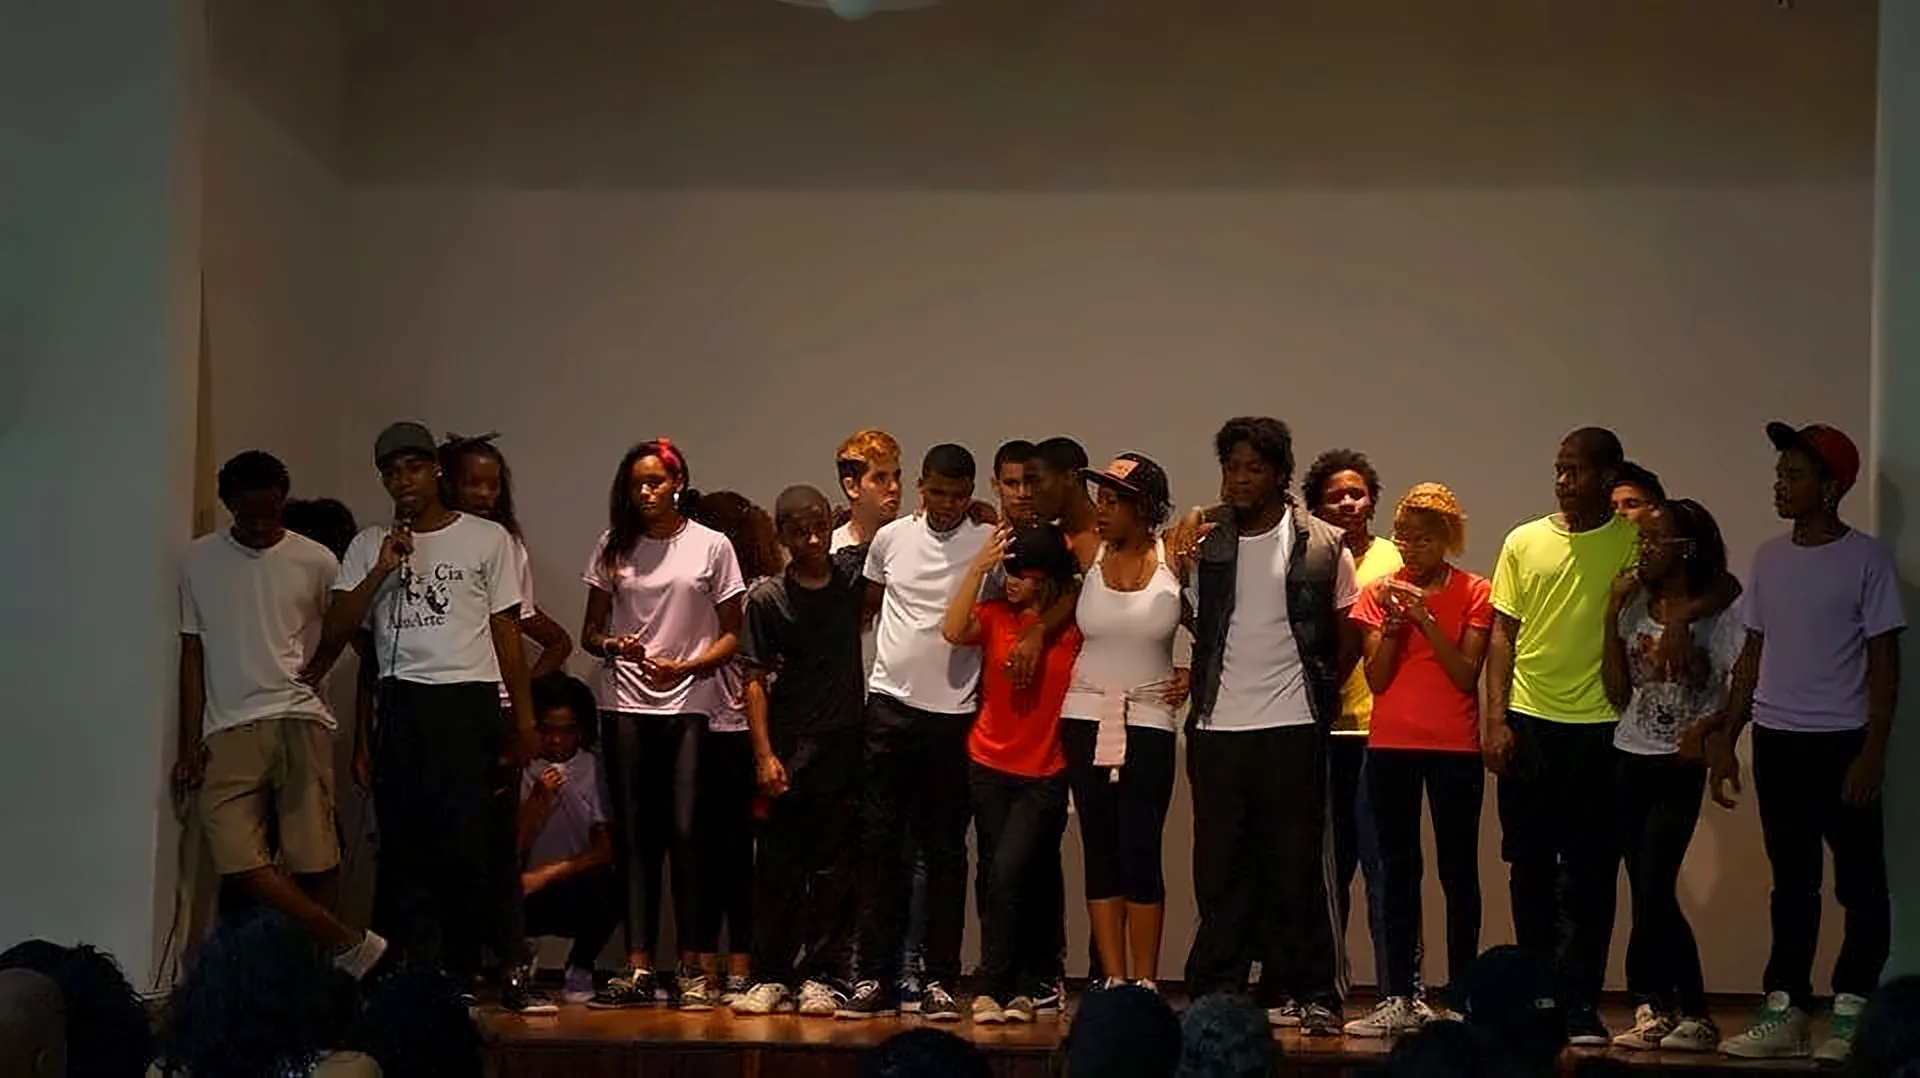
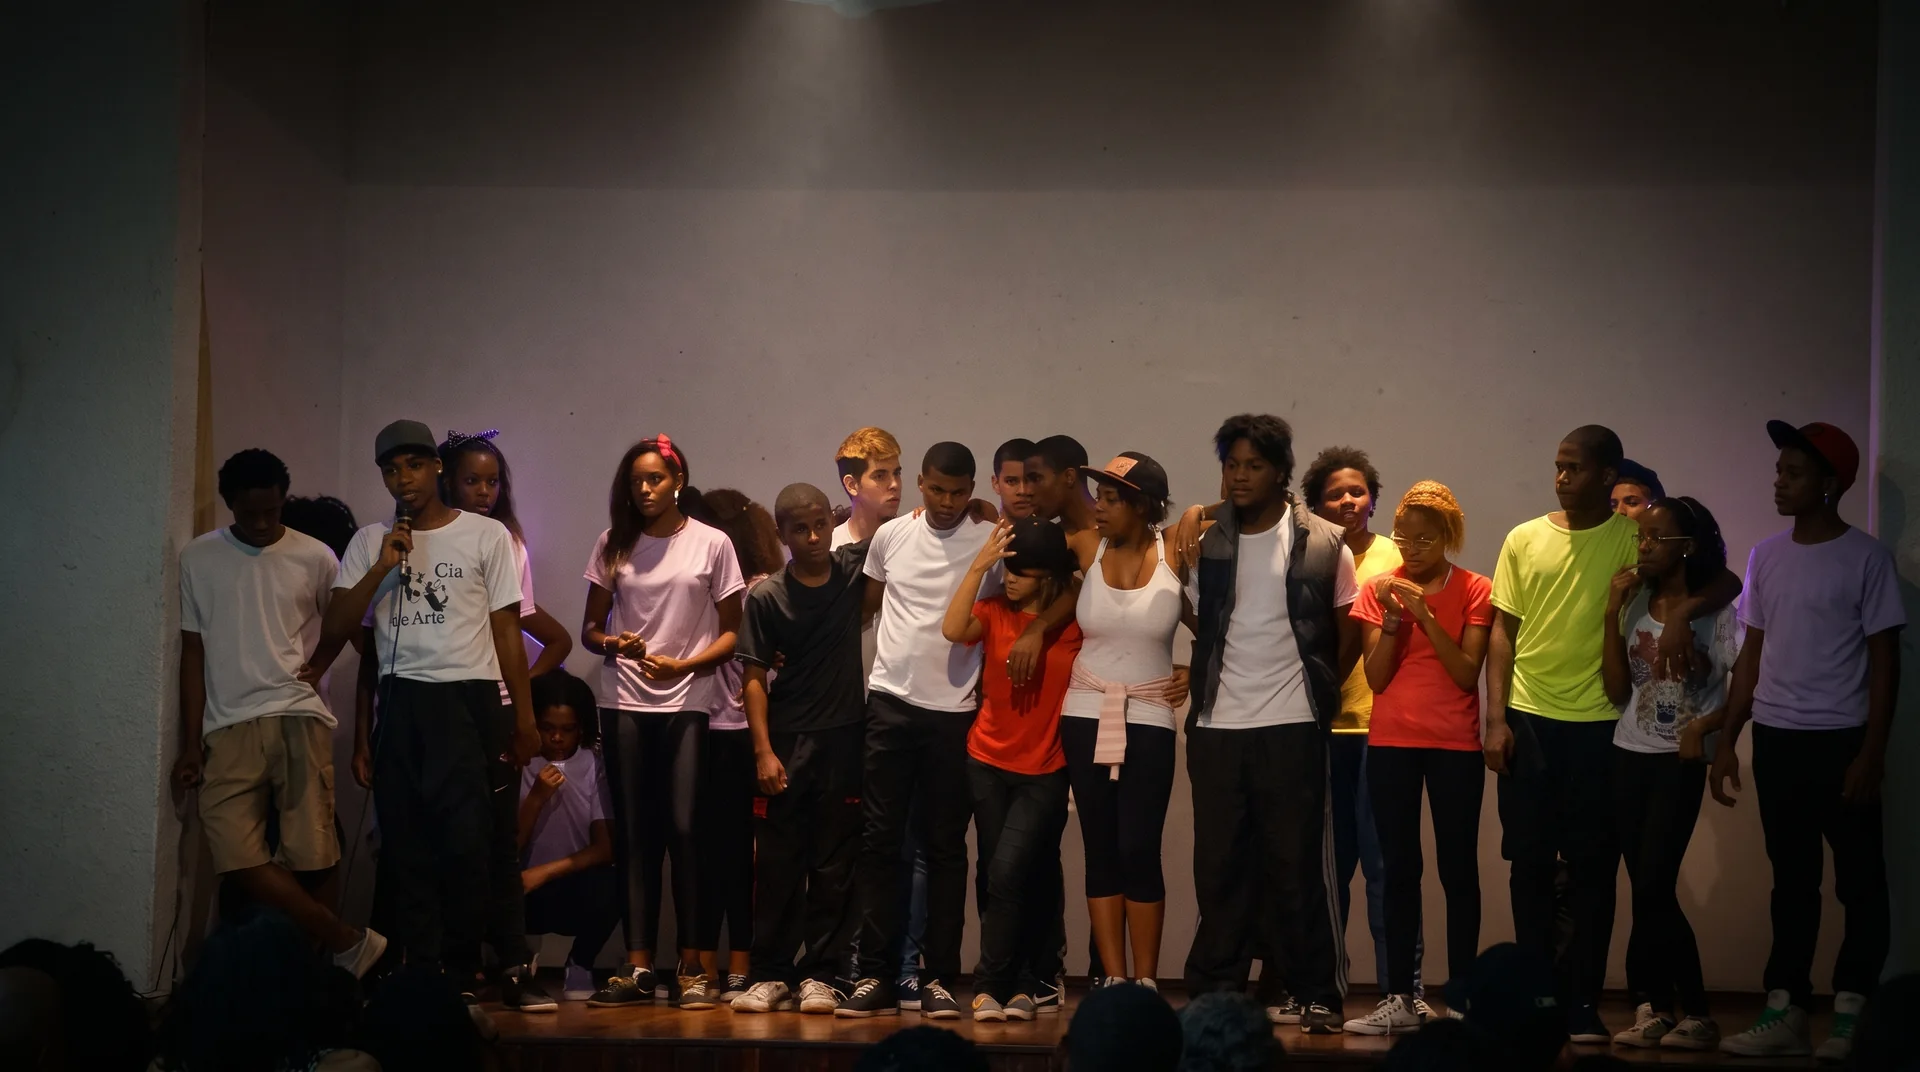
feat: foto do Ato'Arte em alta, espaço entre cenas e fundo tech com parallax
- Cena O Teatro: nova foto do elenco da Ato'Arte no palco (2752px, cinematográfica)
- Fundo fixo com grade, código, circuitos e fluxograma (mesmo cenário do menu e do rodapé),
  com camadas em velocidades diferentes na rolagem (parallax); parado com "reduzir movimento"
- Espaço entre as cenas, borda e brilho neon em cada uma
- Corrige o véu escuro atrás do texto, que sumia depois da troca de foto (isolate)

Claude-Session: https://claude.ai/code/session_01RTRv36uJJ9Rsp7c8NFQenw

diff --git a/src/app/shared/components/fundo-tech/fundo-tech.ts b/src/app/shared/components/fundo-tech/fundo-tech.ts
@@ -1,0 +1,46 @@
+import { Component, DestroyRef, ElementRef, afterNextRender, inject } from '@angular/core';
+import { MovimentoService } from '../../../core/services/movimento.service';
+
+/**
+ * Fundo do site: o mesmo cenário de programação do menu e do rodapé
+ * (grade, código, circuitos, fluxograma e símbolos), fixo atrás de tudo.
+ *
+ * PARALLAX: cada camada anda numa velocidade diferente quando a página rola.
+ * Ele aparece nos espaços entre as cenas, dando a sensação de profundidade.
+ * Com "reduzir movimento" ligado o fundo fica parado.
+ */
+@Component({
+  selector: 'app-fundo-tech',
+  templateUrl: './fundo-tech.html',
+  styleUrl: './fundo-tech.css',
+  host: { class: 'fundo-tech', 'aria-hidden': 'true' },
+})
+export class FundoTech {
+  private readonly elemento = inject<ElementRef<HTMLElement>>(ElementRef).nativeElement;
+  private readonly movimento = inject(MovimentoService);
+
+  constructor() {
+    const destroy = inject(DestroyRef);
+
+    afterNextRender(() => {
+      if (this.movimento.reduzido()) return;
+
+      let pedido = 0;
+      // Escreve a rolagem numa variável CSS; o CSS multiplica pela velocidade de cada camada.
+      const atualizar = () => {
+        pedido = 0;
+        this.elemento.style.setProperty('--rolagem', String(window.scrollY));
+      };
+      const aoRolar = () => {
+        if (!pedido) pedido = requestAnimationFrame(atualizar);
+      };
+
+      atualizar();
+      window.addEventListener('scroll', aoRolar, { passive: true });
+      destroy.onDestroy(() => {
+        window.removeEventListener('scroll', aoRolar);
+        cancelAnimationFrame(pedido);
+      });
+    });
+  }
+}

diff --git a/src/app/shared/components/fundo-tech/fundo-tech.css b/src/app/shared/components/fundo-tech/fundo-tech.css
@@ -1,0 +1,59 @@
+/* Fixo atrás de todo o conteúdo. As cenas ficam por cima (z-10). */
+:host {
+  position: fixed;
+  inset: 0;
+  z-index: 0;
+  overflow: hidden;
+  pointer-events: none;
+  --rolagem: 0;
+  background:
+    linear-gradient(90deg, rgb(123 46 255 / 0.22), transparent 35%, transparent 65%, rgb(0 217 255 / 0.16)),
+    rgb(12 7 26);
+}
+
+.camada {
+  position: absolute;
+  inset: 0;
+  will-change: background-position;
+}
+
+/* Grade de 22px, igual à do menu: a camada mais lenta */
+.camada-grade {
+  background:
+    linear-gradient(rgb(123 46 255 / 0.14) 1px, transparent 1px) 0 0 / 22px 22px,
+    linear-gradient(90deg, rgb(123 46 255 / 0.14) 1px, transparent 1px) 0 0 / 22px 22px;
+  background-position-y: calc(var(--rolagem) * -0.08px);
+}
+
+/* Linhas de código: velocidade média */
+.camada-codigo {
+  background-repeat: repeat;
+  background-size: 1100px 900px;
+  background-position: 0 calc(var(--rolagem) * -0.25px);
+}
+
+/* Circuitos, fluxograma e símbolos: a camada mais próxima, a mais rápida */
+.camada-circuito {
+  background-repeat: repeat;
+  background-size: 1200px 1100px;
+  background-position: 120px calc(var(--rolagem) * -0.5px);
+}
+
+/* Luz rosa e ciano que dá profundidade */
+.brilho {
+  position: absolute;
+  inset: 0;
+  background:
+    radial-gradient(ellipse at 15% 20%, rgb(255 45 170 / 0.16), transparent 50%),
+    radial-gradient(ellipse at 85% 80%, rgb(0 217 255 / 0.12), transparent 50%);
+}
+
+@media (max-width: 767px) {
+  .camada-circuito {
+    background-size: 840px 770px;
+    opacity: 0.8;
+  }
+  .camada-codigo {
+    background-size: 880px 720px;
+  }
+}

diff --git a/src/app/features/experiencia/experiencia.ts b/src/app/features/experiencia/experiencia.ts
@@ -14,6 +14,7 @@ import { ScrollTrigger, gsap } from '../../shared/animations/gsap';
 import { Letreiro } from '../../shared/components/letreiro/letreiro';
 import { MapaRota } from '../../shared/components/mapa-rota/mapa-rota';
 import { Panorama360 } from '../../shared/components/panorama-360/panorama-360';
+import { FundoTech } from '../../shared/components/fundo-tech/fundo-tech';
 import { RodapeCodigo } from '../../shared/components/rodape-codigo/rodape-codigo';
 import { Cena } from './cena/cena';
 
@@ -23,7 +24,7 @@ import { Cena } from './cena/cena';
  */
 @Component({
   selector: 'app-experiencia',
-  imports: [Cena, Letreiro, MapaRota, Panorama360, RodapeCodigo, RouterLink],
+  imports: [FundoTech, Cena, Letreiro, MapaRota, Panorama360, RodapeCodigo, RouterLink],
   templateUrl: './experiencia.html',
 })
 export class Experiencia {

diff --git a/src/app/features/experiencia/experiencia.html b/src/app/features/experiencia/experiencia.html
@@ -3,7 +3,10 @@
   Linha do tempo (ver experiencia.ts): o subtítulo aparece, 3 s depois entram o título e os botões.
   Sem faixas pretas: a foto ocupa a tela toda.
 -->
-<section #abertura class="relative h-svh overflow-hidden bg-kx-preto" aria-labelledby="titulo-principal">
+<!-- Fundo tecnológico com parallax: aparece nos espaços entre as cenas -->
+<app-fundo-tech />
+
+<section #abertura class="relative z-10 h-svh overflow-hidden bg-kx-preto" aria-labelledby="titulo-principal">
   @if (usar3d) {
     <app-panorama-360 [segundosPorVolta]="60" />
   } @else {
@@ -94,4 +97,4 @@
 <app-letreiro />
 
 <!-- Final da página: o cenário de programação correndo, igual ao do menu -->
-<app-rodape-codigo />
+<app-rodape-codigo class="relative z-10 mt-20 block md:mt-32" />

diff --git a/src/app/features/experiencia/cena/cena.html b/src/app/features/experiencia/cena/cena.html
@@ -10,10 +10,10 @@
   class="relative"
 >
   <div
-    class="relative flex min-h-svh items-center overflow-hidden px-5 py-28 sm:px-10 md:py-20 lg:px-20"
+    class="relative flex min-h-svh items-center overflow-hidden border-y border-kx-roxo/50 shadow-[0_0_60px_rgb(123_46_255/0.35)] px-5 py-28 sm:px-10 md:py-20 lg:px-20"
   >
     <!-- FOTOS: a primeira aparece de cara; as outras entram na rolagem (ver cena.animacoes.ts) -->
-    <div data-fotos class="absolute -inset-6 overflow-hidden">
+    <div data-fotos class="absolute -inset-6 isolate overflow-hidden">
       @for (foto of c.fotos; track foto.arquivo; let primeira = $first) {
         <img
           data-foto

diff --git a/src/app/features/experiencia/cena/cena.ts b/src/app/features/experiencia/cena/cena.ts
@@ -17,7 +17,9 @@ import { animarCena } from '../../../shared/animations/cena.animacoes';
 @Component({
   selector: 'app-cena',
   templateUrl: './cena.html',
-  host: { class: 'block' }, // o elemento <app-cena> ocupa a largura toda (ajuda o GSAP a medir a cena)
+  // block: ocupa a largura toda (ajuda o GSAP a medir a cena).
+  // relative z-10 + margem: a cena fica por cima do fundo tecnológico, que aparece no espaço entre elas.
+  host: { class: 'relative z-10 mt-20 block md:mt-32' },
 })
 export class Cena {
   readonly capitulo = input.required<Capitulo>();

diff --git a/src/app/shared/components/fundo-tech/fundo-tech.html b/src/app/shared/components/fundo-tech/fundo-tech.html
@@ -1,0 +1,5 @@
+<!-- Camadas do mais distante (lento) para o mais próximo (rápido) -->
+<div class="camada camada-grade"></div>
+<div class="camada camada-codigo" style="background-image: url('fundo/codigo.svg')"></div>
+<div class="camada camada-circuito" style="background-image: url('fundo/circuito.svg')"></div>
+<div class="brilho"></div>

diff --git a/src/app/core/data/capitulos.data.ts b/src/app/core/data/capitulos.data.ts
@@ -121,7 +121,7 @@ export const CAPITULOS: readonly Capitulo[] = [
       {
         arquivo: '06-atoarte-palco',
         alt: "O elenco da Ato'Arte reunido no palco ao fim de uma apresentação.",
-        foco: '50% 45%',
+        foco: '50% 62%',
       },
       {
         arquivo: '06-teatro-passageiros',
